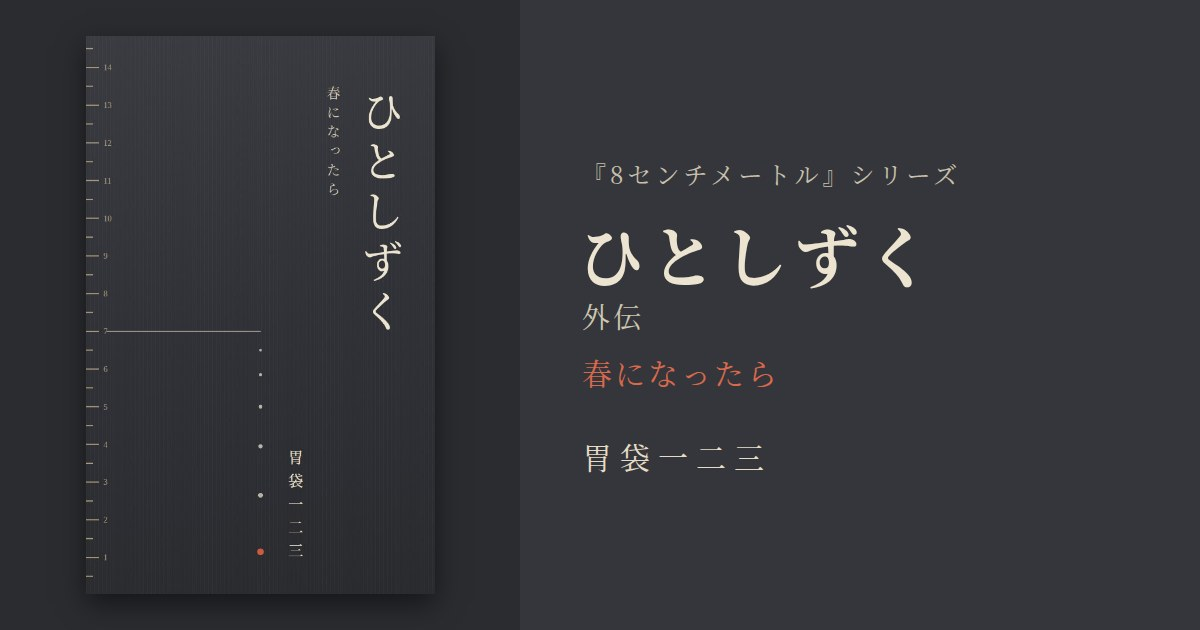
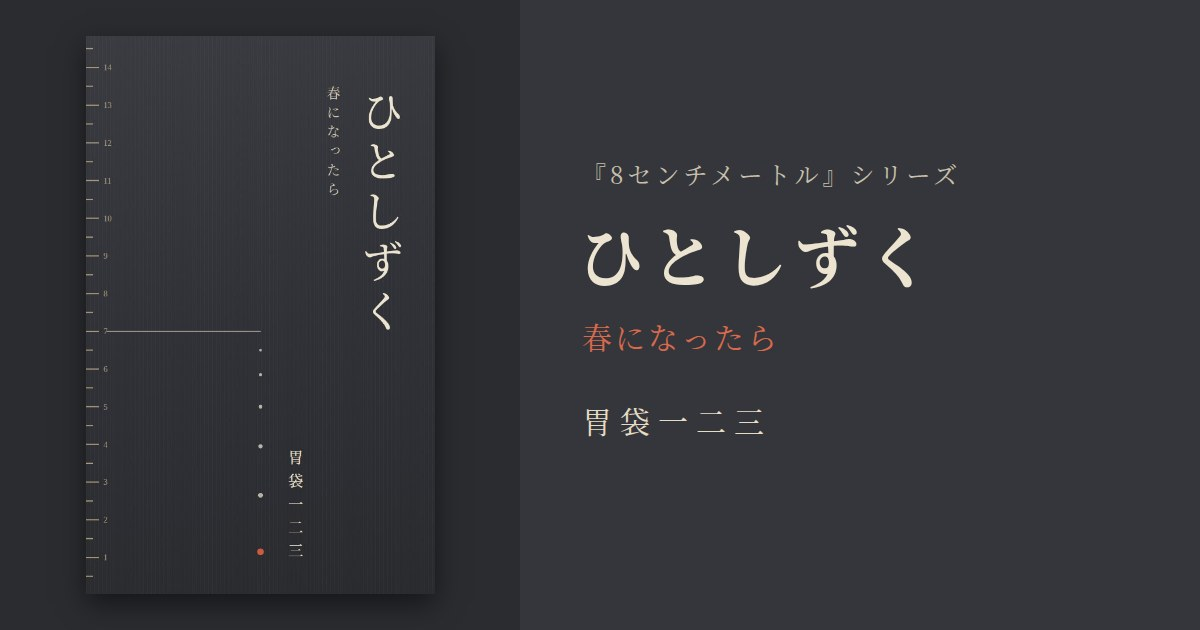
『ひとしずく』を外伝でなく幕間の一冊として扱う：外伝の札・見出し・年表の（外伝）・og:title・共有用画像の「外伝」を外す
Claude-Session: https://claude.ai/code/session_01UprRUh8WrU8irk7vq9y6eP

Changed region(s): [[0.4625, 0.4825, 0.6475, 0.754]]

diff --git a/index.html b/index.html
@@ -170,7 +170,7 @@
 <div class="toast" id="toast" role="status" aria-live="polite"></div>
 <script>
 (function(){
-  var BOOKS=[{"slug": "8cm", "t": "8センチメートル", "sub": "待っています。何年でも", "d": "身長八センチメートルの青年よしゆきは、六十年前の手紙を頼りに、仲間と北の丘をめざす。", "min": 35}, {"slug": "lario", "t": "ラリオ前史", "sub": "考えると、道って、消えるじゃん?", "d": "道しか覚えていない配達員ラリオ。十年前、賭場の町で彼に何が起きたのか。", "min": 27}, {"slug": "9cm", "t": "9センチメートル", "sub": "数えられないもの", "d": "四百十二枚の手紙に、一度だけ返事が来た。よしゆきたちは南の町へ向かう。", "min": 39}, {"slug": "hanpo", "t": "半歩", "sub": "片方の靴", "d": "年に一度、北の町の角に立つ男がいる。自分を忘れた相手に、名乗るために。", "min": 27}, {"slug": "1cm", "t": "1センチメートル", "sub": "二本の線のあいだ", "d": "駅裏の古本屋うろこ堂が、店を閉めることになった。壁の隙間の六人に残された日数は、六十日。", "min": 41}, {"slug": "kiku", "t": "聞いてるか", "sub": "ひとつの返事", "d": "北の町の紙の山で、数字を読む二十一歳のカク。その話を最後まで聞いた者は、これまでひとりもいなかった。", "min": 27}, {"slug": "minami", "t": "0センチメートル　南", "sub": "消された跡", "d": "南へ十八日。ナオ吉が運んだのは、よしゆきの手紙一枚。つばめ堂の棚の奥で、消された跡を見つける。", "min": 39}, {"slug": "hitoshizuku", "t": "ひとしずく", "pt": "外伝　ひとしずく", "tag": "外伝", "sub": "春になったら", "d": "霜の朝、ソラは値札の切れはしを一枚拾う。古本屋の棚のうしろの壁に、線が十九本。名前は、十八しかない。", "min": 34}], CART='<svg class="cartico" viewBox="0 0 30 20" aria-hidden="true"><rect x="6" y="3" width="15" height="9" rx="1" fill="none" stroke="currentColor" stroke-width="1.4"/><path d="M6 12 H24" stroke="currentColor" stroke-width="1.4" stroke-linecap="round"/><path d="M24 12 L27 6" stroke="currentColor" stroke-width="1.4" stroke-linecap="round"/><g class="w"><circle cx="10" cy="16" r="2.6" fill="none" stroke="currentColor" stroke-width="1.4"/><path d="M10 13.4 V18.6" stroke="currentColor" stroke-width="1"/></g><g class="w"><circle cx="20" cy="16" r="2.6" fill="none" stroke="currentColor" stroke-width="1.4"/><path d="M20 13.4 V18.6" stroke="currentColor" stroke-width="1"/></g></svg>';
+  var BOOKS=[{"slug": "8cm", "t": "8センチメートル", "sub": "待っています。何年でも", "d": "身長八センチメートルの青年よしゆきは、六十年前の手紙を頼りに、仲間と北の丘をめざす。", "min": 35}, {"slug": "lario", "t": "ラリオ前史", "sub": "考えると、道って、消えるじゃん?", "d": "道しか覚えていない配達員ラリオ。十年前、賭場の町で彼に何が起きたのか。", "min": 27}, {"slug": "9cm", "t": "9センチメートル", "sub": "数えられないもの", "d": "四百十二枚の手紙に、一度だけ返事が来た。よしゆきたちは南の町へ向かう。", "min": 39}, {"slug": "hanpo", "t": "半歩", "sub": "片方の靴", "d": "年に一度、北の町の角に立つ男がいる。自分を忘れた相手に、名乗るために。", "min": 27}, {"slug": "1cm", "t": "1センチメートル", "sub": "二本の線のあいだ", "d": "駅裏の古本屋うろこ堂が、店を閉めることになった。壁の隙間の六人に残された日数は、六十日。", "min": 41}, {"slug": "kiku", "t": "聞いてるか", "sub": "ひとつの返事", "d": "北の町の紙の山で、数字を読む二十一歳のカク。その話を最後まで聞いた者は、これまでひとりもいなかった。", "min": 27}, {"slug": "minami", "t": "0センチメートル　南", "sub": "消された跡", "d": "南へ十八日。ナオ吉が運んだのは、よしゆきの手紙一枚。つばめ堂の棚の奥で、消された跡を見つける。", "min": 39}, {"slug": "hitoshizuku", "t": "ひとしずく", "sub": "春になったら", "d": "霜の朝、ソラは値札の切れはしを一枚拾う。古本屋の棚のうしろの壁に、線が十九本。名前は、十八しかない。", "min": 34}], CART='<svg class="cartico" viewBox="0 0 30 20" aria-hidden="true"><rect x="6" y="3" width="15" height="9" rx="1" fill="none" stroke="currentColor" stroke-width="1.4"/><path d="M6 12 H24" stroke="currentColor" stroke-width="1.4" stroke-linecap="round"/><path d="M24 12 L27 6" stroke="currentColor" stroke-width="1.4" stroke-linecap="round"/><g class="w"><circle cx="10" cy="16" r="2.6" fill="none" stroke="currentColor" stroke-width="1.4"/><path d="M10 13.4 V18.6" stroke="currentColor" stroke-width="1"/></g><g class="w"><circle cx="20" cy="16" r="2.6" fill="none" stroke="currentColor" stroke-width="1.4"/><path d="M20 13.4 V18.6" stroke="currentColor" stroke-width="1"/></g></svg>';
   var list=document.getElementById('list'), panel=document.getElementById('panel'), openSlug=null;
   function esc(x){ return String(x).replace(/&/g,'&amp;').replace(/</g,'&lt;').replace(/"/g,'&quot;'); }
   function bookmarked(b){ try{ return !!localStorage.getItem('shiori:'+b.t); }catch(e){ return false; } }
@@ -232,7 +232,7 @@
       '9cm': {order:5, when:'四百十二日後'},
       '1cm': {order:6, when:'二年後'},
       minami:{order:7, when:'その冬から', name:'0センチ　南'},
-      hitoshizuku:{order:8, when:'同じ冬', name:'ひとしずく（外伝）'}
+      hitoshizuku:{order:8, when:'同じ冬', name:'ひとしずく'}
     };
     var bar=document.getElementById('tlbar'), note=document.getElementById('tlnote');
     var seen={}; try{ seen=JSON.parse(localStorage.getItem('8cm:tlseen')||'{}')||{}; }catch(e){}

diff --git a/hitoshizuku.html b/hitoshizuku.html
@@ -7,10 +7,10 @@
 <meta name="description" content="霜の朝、ソラは値札の切れはしを一枚拾う。古本屋の棚のうしろの壁に、線が十九本。名前は、十八しかない。">
 <meta property="og:type" content="website">
 <meta property="og:site_name" content="『8センチメートル』シリーズ">
-<meta property="og:title" content="外伝　ひとしずく｜春になったら">
+<meta property="og:title" content="ひとしずく｜春になったら">
 <meta property="og:description" content="霜の朝、ソラは値札の切れはしを一枚拾う。古本屋の棚のうしろの壁に、線が十九本。名前は、十八しかない。">
 <meta property="og:url" content="https://ibukuro123.github.io/8cm/hitoshizuku.html">
-<meta property="og:image" content="https://ibukuro123.github.io/8cm/og/og_G.jpg">
+<meta property="og:image" content="https://ibukuro123.github.io/8cm/og/og_G.jpg?v=2">
 <meta property="og:image:width" content="1200">
 <meta property="og:image:height" content="630">
 <meta name="twitter:card" content="summary_large_image">
